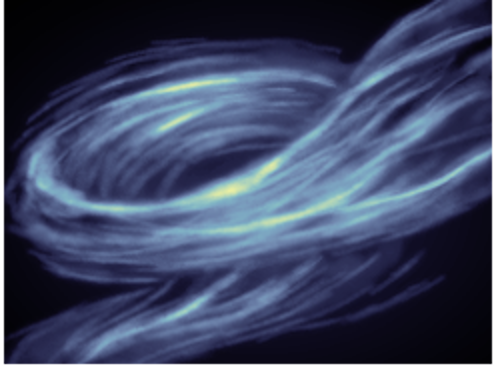
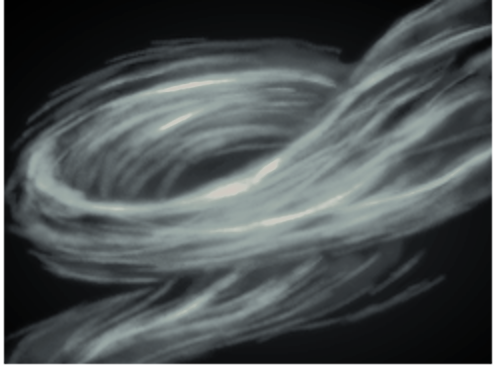
rework energized rift

diff --git a/src/main/java/mysticmod/cards/EnergizedRift.java b/src/main/java/mysticmod/cards/EnergizedRift.java
@@ -9,8 +9,10 @@ import com.megacrit.cardcrawl.dungeons.AbstractDungeon;
 import com.megacrit.cardcrawl.localization.CardStrings;
 import com.megacrit.cardcrawl.monsters.AbstractMonster;
 import mysticmod.MysticMod;
+import mysticmod.actions.LoadCardImageAction;
 import mysticmod.patches.AbstractCardEnum;
 import mysticmod.patches.MysticTags;
+import mysticmod.powers.ArtesPlayed;
 
 public class EnergizedRift extends AbstractMysticCard {
     public static final String ID = "mysticmod:EnergizedRift";
@@ -18,8 +20,13 @@ public class EnergizedRift extends AbstractMysticCard {
     public static final String NAME = cardStrings.NAME;
     public static final String DESCRIPTION = cardStrings.DESCRIPTION;
     public static final String UPGRADE_DESCRIPTION = cardStrings.UPGRADE_DESCRIPTION;
+    public static final String[] EXTENDED_DESCRIPTION = cardStrings.EXTENDED_DESCRIPTION;
     public static final String IMG_PATH = "mysticmod/images/cards/energizedrift.png";
+    public static final String ALTERNATE_IMG_PATH = "mysticmod/images/cards/alternate/energizedrift.png";
     private static final int COST = 1;
+    private int cardAmount = 0;
+    private boolean isArtAlternate = false;
+    private String currentDescription = DESCRIPTION;
 
     public EnergizedRift() {
         super(ID, NAME, IMG_PATH, COST, DESCRIPTION,
@@ -31,17 +38,61 @@ public class EnergizedRift extends AbstractMysticCard {
 
     @Override
     public void use(AbstractPlayer p, AbstractMonster m) {
-        AbstractCard randomCantrip = MysticMod.cantripsGroup.get(AbstractDungeon.cardRandomRng.random(MysticMod.cantripsGroup.size()-1)).makeCopy();
-        if (this.upgraded) {
-            randomCantrip.upgrade();
+        for (int i = 0; i < cardAmount; i++) {
+            AbstractCard randomCantrip = MysticMod.cantripsGroup.get(AbstractDungeon.cardRandomRng.random(MysticMod.cantripsGroup.size()-1)).makeCopy();
+            if (upgraded) {
+                randomCantrip.upgrade();
+            }
+            AbstractDungeon.actionManager.addToBottom(new MakeTempCardInDrawPileAction(randomCantrip, 1, true, true));
         }
-        AbstractDungeon.actionManager.addToBottom(new MakeTempCardInHandAction(randomCantrip.makeStatEquivalentCopy(), 1, false));
-        for (final AbstractCard potentialCantrip : p.hand.group) {
-            if (potentialCantrip.hasTag(MysticTags.IS_CANTRIP)) {
-                AbstractDungeon.actionManager.addToBottom(new MakeTempCardInDrawPileAction(potentialCantrip.makeStatEquivalentCopy(), 1, true, true));
+        AbstractDungeon.actionManager.addToBottom(new LoadCardImageAction(this, IMG_PATH, false));
+        this.isArtAlternate = false;
+        this.rawDescription = currentDescription;
+        this.initializeDescription();
+    }
+
+    @Override
+    public void applyPowers() {
+        cardAmount = 0;
+        if (AbstractDungeon.player.hasPower(ArtesPlayed.POWER_ID)) {
+            cardAmount = AbstractDungeon.player.getPower(ArtesPlayed.POWER_ID).amount;
+        }
+        if (cardAmount > 0) {
+            this.rawDescription = currentDescription + EXTENDED_DESCRIPTION[0] + cardAmount + (cardAmount == 1 ? EXTENDED_DESCRIPTION[1] : EXTENDED_DESCRIPTION[2]);
+        }
+        if (AbstractDungeon.player.hasPower(ArtesPlayed.POWER_ID)) {
+            if (!this.isArtAlternate) {
+                AbstractDungeon.actionManager.addToBottom(new LoadCardImageAction(this, ALTERNATE_IMG_PATH, true));
+                this.isArtAlternate = true;
+            }
+        } else {
+            if (this.isArtAlternate) {
+                this.loadCardImage(IMG_PATH);
+                this.isArtAlternate = false;
             }
         }
-        AbstractDungeon.actionManager.addToBottom(new MakeTempCardInDrawPileAction(randomCantrip.makeStatEquivalentCopy(), 1, true, true));
+    }
+
+    @Override
+    public void onMoveToDiscard() {
+        this.rawDescription = currentDescription;
+        this.initializeDescription();
+    }
+
+    @Override
+    public boolean hasEnoughEnergy() {
+        if (!AbstractDungeon.player.hasPower(ArtesPlayed.POWER_ID)) {
+            return false;
+        }
+        return super.hasEnoughEnergy();
+    }
+
+    public void triggerOnEndOfPlayerTurn() {
+        super.triggerOnEndOfPlayerTurn();
+        if (this.isArtAlternate) {
+            this.loadCardImage(IMG_PATH);
+            this.isArtAlternate = false;
+        }
     }
 
     @Override
@@ -53,7 +104,7 @@ public class EnergizedRift extends AbstractMysticCard {
     public void upgrade() {
         if (!this.upgraded) {
             this.upgradeName();
-            this.rawDescription = UPGRADE_DESCRIPTION;
+            this.rawDescription = currentDescription = UPGRADE_DESCRIPTION;
             this.initializeDescription();
         }
     }
